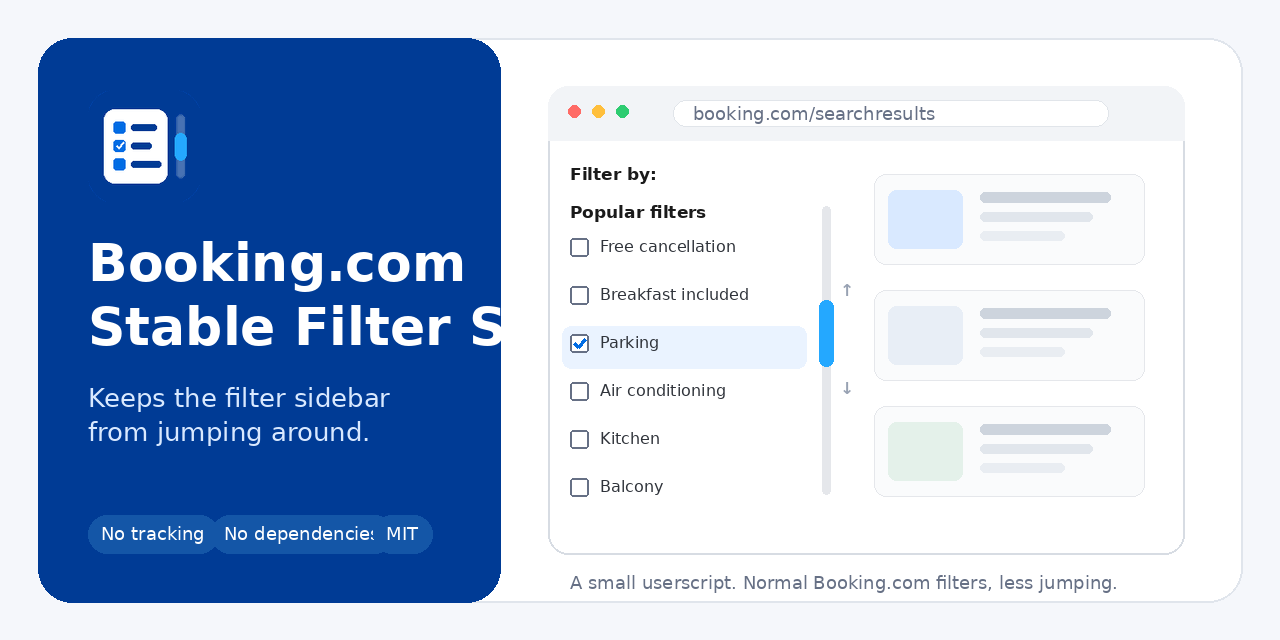
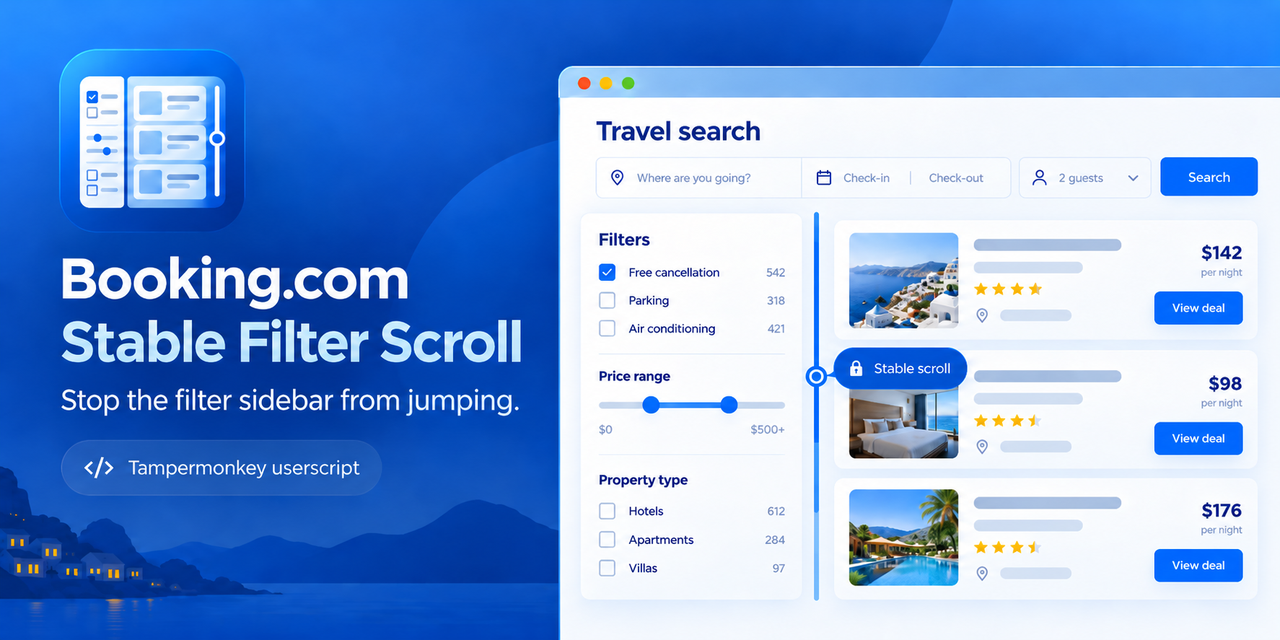
fix: handle filters promoted to popular section

diff --git a/booking-stable-filter-scroll.user.js b/booking-stable-filter-scroll.user.js
@@ -1,7 +1,7 @@
 // ==UserScript==
 // @name         Booking.com Stable Filter Scroll
 // @namespace    https://github.com/fakie-dev/booking-stable-filter-scroll
-// @version      1.1.0
+// @version      1.1.1
 // @description  Keeps the Booking.com filter sidebar from jumping when filters update or reorder.
 // @description:ru Удерживает список фильтров Booking.com на месте во время обновления и перестановки фильтров.
 // @author       fakie-dev
@@ -22,9 +22,10 @@
 (() => {
     'use strict';
 
-    const STORAGE_KEY = '__booking_stable_filter_scroll_v1';
-    const MAX_LOCK_TIME_MS = 2500;
-    const QUIET_TIME_MS = 350;
+    const STORAGE_KEY = '__booking_stable_filter_scroll_v2';
+    const MIN_LOCK_TIME_MS = 1200;
+    const MAX_LOCK_TIME_MS = 3500;
+    const QUIET_TIME_MS = 500;
     const RESTORE_MAX_AGE_MS = 10_000;
     const REVEAL_TIMEOUT_MS = 800;
     const MAX_ANCHORS = 6;
@@ -82,12 +83,17 @@
         return element?.getAttribute?.('data-filters-item') || null;
     }
 
-    function findBestFilterMatch(key, expectedTop) {
+    function getDocumentTop(element) {
+        return element.getBoundingClientRect().top + window.scrollY;
+    }
+
+    function findBestFilterMatch(key, expectedDocumentTop) {
         if (!key) {
             return null;
         }
 
-        const matches = [];
+        let best = null;
+        let bestDistance = Infinity;
 
         for (const element of document.querySelectorAll('[data-filters-item]')) {
             if (getFilterKey(element) !== key) {
@@ -95,25 +101,28 @@
             }
 
             const rect = element.getBoundingClientRect();
-
             if (rect.width <= 0 || rect.height <= 0) {
                 continue;
             }
 
-            matches.push({
-                element,
-                top: rect.top,
-                distance: Math.abs(rect.top - expectedTop),
-            });
+            // The same filter can appear twice after Booking promotes a selected
+            // item to "Popular filters". Match the copy closest to its old
+            // document position instead of whichever copy happens to be first.
+            const distance = Math.abs(getDocumentTop(element) - expectedDocumentTop);
+
+            if (distance < bestDistance) {
+                best = element;
+                bestDistance = distance;
+            }
         }
 
-        matches.sort((a, b) => a.distance - b.distance);
-
-        return matches[0]?.element ?? null;
+        return best;
     }
 
     function collectAnchors(clickedFilter) {
-        const viewportMiddle = window.innerHeight / 2;
+        const clickedRect = clickedFilter.getBoundingClientRect();
+        const clickedCenter = (clickedRect.top + clickedRect.bottom) / 2;
+        const clickedDocumentTop = getDocumentTop(clickedFilter);
         const candidates = [];
 
         for (const element of document.querySelectorAll('[data-filters-item]')) {
@@ -128,15 +137,21 @@
 
             const rect = element.getBoundingClientRect();
             const center = (rect.top + rect.bottom) / 2;
+            const documentTop = getDocumentTop(element);
+
+            // Prefer rows around the one being clicked. Rows just above it tend
+            // to survive Booking's reordering more reliably than promoted rows.
+            const aboveBias = documentTop < clickedDocumentTop ? -30 : 0;
 
             candidates.push({
                 key,
                 top: rect.top,
-                distance: Math.abs(center - viewportMiddle),
+                documentTop,
+                score: Math.abs(center - clickedCenter) + aboveBias,
             });
         }
 
-        candidates.sort((a, b) => a.distance - b.distance);
+        candidates.sort((a, b) => a.score - b.score);
 
         const anchors = [];
         const seen = new Set();
@@ -147,7 +162,11 @@
             }
 
             seen.add(candidate.key);
-            anchors.push({ key: candidate.key, top: candidate.top });
+            anchors.push({
+                key: candidate.key,
+                top: candidate.top,
+                documentTop: candidate.documentTop,
+            });
 
             if (anchors.length >= MAX_ANCHORS) {
                 break;
@@ -165,7 +184,7 @@
         const deltas = [];
 
         for (const anchor of active.anchors) {
-            const element = findBestFilterMatch(anchor.key, anchor.top);
+            const element = findBestFilterMatch(anchor.key, anchor.documentTop);
             if (!element) {
                 continue;
             }
@@ -174,7 +193,19 @@
             deltas.push(currentTop - anchor.top);
         }
 
-        return median(deltas);
+        if (deltas.length === 0) {
+            return null;
+        }
+
+        // A promoted/duplicated row can still be a bad match. Use a robust
+        // median and discard large outliers before applying the correction.
+        const center = median(deltas);
+        const deviations = deltas.map((delta) => Math.abs(delta - center));
+        const mad = median(deviations) ?? 0;
+        const threshold = Math.max(24, mad * 3.5);
+        const inliers = deltas.filter((delta) => Math.abs(delta - center) <= threshold);
+
+        return median(inliers.length > 0 ? inliers : deltas);
     }
 
     function revealDocument() {
@@ -259,7 +290,7 @@
         const quietFor = now - active.lastMutation;
 
         if (
-            (elapsed > 450 && quietFor > QUIET_TIME_MS) ||
+            (elapsed > MIN_LOCK_TIME_MS && quietFor > QUIET_TIME_MS) ||
             elapsed > MAX_LOCK_TIME_MS
         ) {
             stopStabilizing();
@@ -371,6 +402,10 @@
             const filter = event.target.closest('[data-filters-item]');
             if (!filter) {
                 return;
+            }
+
+            if (active) {
+                stopStabilizing();
             }
 
             const data = {

diff --git a/booking-stable-filter-scroll.meta.js b/booking-stable-filter-scroll.meta.js
@@ -1,7 +1,7 @@
 // ==UserScript==
 // @name         Booking.com Stable Filter Scroll
 // @namespace    https://github.com/fakie-dev/booking-stable-filter-scroll
-// @version      1.1.0
+// @version      1.1.1
 // @description  Keeps the Booking.com filter sidebar from jumping when filters update or reorder.
 // @description:ru Удерживает список фильтров Booking.com на месте во время обновления и перестановки фильтров.
 // @author       fakie-dev

diff --git a/README.ru.md b/README.ru.md
@@ -1,6 +1,6 @@
 <div align="center">
 
-<img src="assets/icon.svg" width="88" alt="Иконка Booking.com Stable Filter Scroll">
+<img src="assets/icon-128.png" width="88" alt="Иконка Booking.com Stable Filter Scroll">
 
 # Booking.com Stable Filter Scroll
 
@@ -20,8 +20,10 @@
 </div>
 
 <p align="center">
-  <img src="assets/social-preview.png" alt="Превью Booking.com Stable Filter Scroll" width="100%">
+  <img src="assets/readme-banner.png" alt="Превью Booking.com Stable Filter Scroll" width="100%">
 </p>
+
+> Неофициальный userscript. Проект не связан с Booking.com и не одобрен компанией.
 
 ---
 
@@ -43,7 +45,7 @@
 
 Проблема не всегда сводится к обычному `scrollTo(0, 0)`. Booking может переносить выбранные фильтры, добавлять или удалять строки и перестраивать часть сайдбара. Из-за этого содержимое относительно экрана заметно сдвигается.
 
-Скрипт запоминает несколько видимых строк, не использует только что нажатый фильтр как опорную точку и компенсирует движение остальных строк, пока Booking обновляет интерфейс.
+Скрипт запоминает несколько видимых строк, не использует только что нажатый фильтр как опорную точку и компенсирует движение остальных строк, пока Booking обновляет интерфейс. Если Booking переносит выбранный пункт в **«Популярные фильтры»**, одинаковые фильтры различаются по их прежней позиции в документе, а не по первому совпадению в DOM.
 
 ## Как работает
 

diff --git a/README.md b/README.md
@@ -1,6 +1,6 @@
 <div align="center">
 
-<img src="assets/icon.svg" width="88" alt="Booking.com Stable Filter Scroll icon">
+<img src="assets/icon-128.png" width="88" alt="Booking.com Stable Filter Scroll icon">
 
 # Booking.com Stable Filter Scroll
 
@@ -20,8 +20,10 @@ Keeps the Booking.com filter sidebar from jumping around while filters update.
 </div>
 
 <p align="center">
-  <img src="assets/social-preview.png" alt="Booking.com Stable Filter Scroll preview" width="100%">
+  <img src="assets/readme-banner.png" alt="Booking.com Stable Filter Scroll preview" width="100%">
 </p>
+
+> Unofficial userscript. Not affiliated with or endorsed by Booking.com.
 
 ---
 
@@ -43,7 +45,7 @@ You can also install directly from GitHub:
 
 The jump is not always a simple `scrollTo(0, 0)`. Booking can reorder selected filters, insert or remove rows, or rebuild part of the sidebar. That changes the layout around the viewport and makes the page appear to move.
 
-The script remembers a few visible filter rows, ignores the one you just clicked, and compensates for the movement of the remaining rows while Booking is updating.
+The script remembers a few visible filter rows, ignores the one you just clicked, and compensates for the movement of the remaining rows while Booking is updating. If Booking promotes the selected item into **Popular filters**, duplicate filter rows are matched by their previous document position instead of blindly using the first copy in the DOM.
 
 ## How it works
 

diff --git a/greasyfork/description.ru.md b/greasyfork/description.ru.md
@@ -1,5 +1,7 @@
 # Booking.com Stable Filter Scroll
 
+> Неофициальный userscript. Проект не связан с Booking.com и не одобрен компанией.
+
 После выбора фильтра Booking может перестроить список: выбранные пункты меняют положение, строки добавляются или исчезают, и видимая часть сайдбара уезжает.
 
 Скрипт компенсирует такие сдвиги и старается удерживать текущий участок панели фильтров на месте.
@@ -9,6 +11,7 @@
 - не заменяет штатные фильтры и чекбоксы Booking.com;
 - компенсирует layout shift во время обновления фильтров;
 - не использует только что нажатый фильтр как якорь, потому что Booking может его перенести;
+- не уезжает за копией фильтра, если Booking переносит его в раздел **«Популярные фильтры»**;
 - сразу перестаёт вмешиваться, если пользователь начинает скроллить сам;
 - работает без внешних библиотек и дополнительного интерфейса.
 

diff --git a/greasyfork/description.md b/greasyfork/description.md
@@ -1,5 +1,7 @@
 # Booking.com Stable Filter Scroll
 
+> Unofficial userscript. Not affiliated with or endorsed by Booking.com.
+
 Booking.com's filter list can move around after every click: selected items get reordered, rows appear or disappear, and the part of the sidebar you were looking at shifts.
 
 This script keeps the visible part of the filter sidebar roughly in place while Booking updates it.
@@ -9,6 +11,7 @@ This script keeps the visible part of the filter sidebar roughly in place while 
 - keeps normal Booking.com filters and checkboxes untouched;
 - compensates for layout shifts while filters update;
 - ignores the clicked filter as an anchor because Booking may move it;
+- handles filters promoted into the **Popular filters** section without following the promoted copy;
 - stops immediately when you scroll manually;
 - works without external libraries or extra UI.
 

diff --git a/CHANGELOG.md b/CHANGELOG.md
@@ -1,5 +1,13 @@
 # Changelog
 
+## [1.1.1] - 2026-09-22
+
+- Fixed scroll jumps when Booking promotes a selected filter into **Popular filters**.
+- Anchor matching now distinguishes duplicate filter rows by their previous document position.
+- Added outlier-resistant anchor compensation and a longer settle window for delayed reordering.
+- Fixed rapid consecutive filter clicks so the newest restore state is not discarded.
+- Replaced the project artwork and added a transparent PNG icon set.
+
 ## [1.1.0] - 2026-09-22
 
 - Added project icon metadata for userscript managers.
